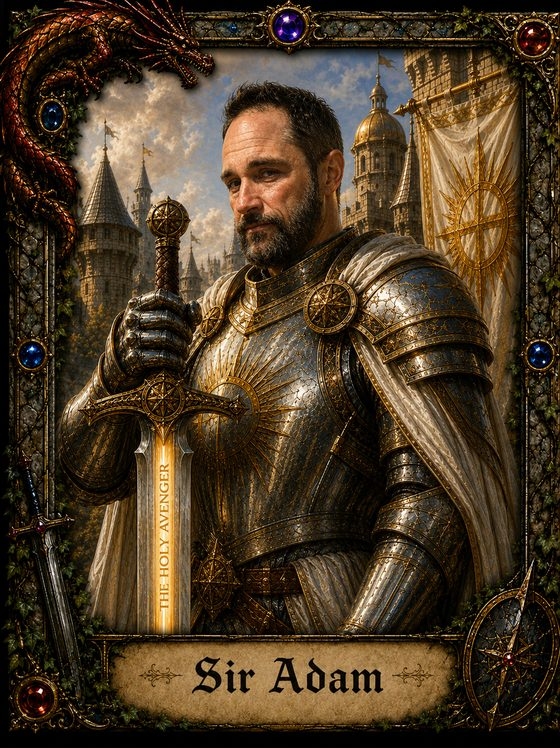
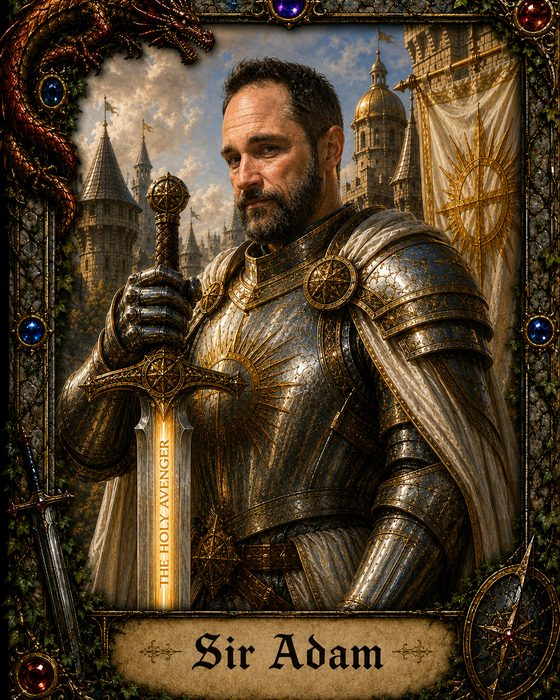
One paladin, four across, full size
Sir Adam takes Sir Garrick's place rather than joining him: two paladins in a
row of four read as a duplicate, and the fifth card cost the row its single
clean line. Back to the four-column grid it had.

The builder now crops every card to one aspect on the way out. They arrive
between 0.75 and 0.80 wide-to-tall, and a row whose images differ in height
puts every caption at a different level — which the eye reads as four cards
and one mistake. The crop is centred and takes at most 3% off the tallest,
which its painted border absorbs.

diff --git a/index.html b/index.html
@@ -164,9 +164,9 @@ race, alignment, scores, hit points and all &mdash; and lets you trade points
 around before you keep it. Or build one by hand, a line at a time.</p>
 
 <div class="heroes">
-  <figure><img src="img/hero-garrick.jpg" width="560" height="700" loading="lazy"
-    alt="Sir Garrick, a human paladin in polished plate armour bearing a golden sword.">
-    <figcaption>Sir Garrick &middot; Paladin</figcaption></figure>
+  <figure><img src="img/hero-adam.jpg" width="560" height="700" loading="lazy"
+    alt="Sir Adam, a human paladin in battered plate before a castle, holding a golden sword named the Holy Avenger.">
+    <figcaption>Sir Adam &middot; Paladin</figcaption></figure>
   <figure><img src="img/hero-bram.jpg" width="560" height="700" loading="lazy"
     alt="Bram Ironfoot, an older dwarf fighter with a braided grey beard and a war axe.">
     <figcaption>Bram Ironfoot &middot; Fighter</figcaption></figure>
@@ -176,9 +176,6 @@ around before you keep it. Or build one by hand, a line at a time.</p>
   <figure><img src="img/hero-theodric.jpg" width="560" height="707" loading="lazy"
     alt="Theodric, a half-orc wizard in a library holding a crystal-topped staff.">
     <figcaption>Theodric &middot; Wizard</figcaption></figure>
-  <figure><img src="img/hero-adam.jpg" width="560" height="748" loading="lazy"
-    alt="Sir Adam, a human paladin in battered plate before a castle, holding a golden sword named the Holy Avenger.">
-    <figcaption>Sir Adam &middot; Paladin</figcaption></figure>
 </div>
 
 <h2>What&rsquo;s inside</h2>

diff --git a/style.css b/style.css
@@ -143,28 +143,24 @@ figcaption {
   gap: 1.25rem;
   margin: 1.5rem 0 2.5rem;
 }
-/* The cast. FLEX RATHER THAN GRID because there are five of them: a four-column
-   grid leaves the fifth card alone against the left margin, and five columns
-   shrinks every card to a thumbnail. Wrapping and centring puts four on the
-   first row and the fifth under the middle of them, which is how a row of
-   cards laid on a table falls anyway. */
+/* The cast: FOUR across, one row, full size. It was briefly five — Sir Garrick
+   and Sir Adam are both paladins, and the pair read as a duplicate while the
+   extra card cost the row its clean single line. One paladin, four columns.
+   The builder crops every card to one aspect so the captions sit level. */
 .heroes {
-  display: flex;
-  flex-wrap: wrap;
-  justify-content: center;
+  display: grid;
+  grid-template-columns: repeat(4, minmax(0, 1fr));
   gap: 1rem;
   margin: 1.5rem 0 2.5rem;
 }
-.heroes figure { flex: 0 1 calc(25% - .75rem); }
 .heroes figcaption { font-size: .82rem; }
 
 @media (max-width: 46rem) {
   .split { grid-template-columns: 1fr; gap: 1.1rem; }
   .split.reverse > figure { order: 0; }
   .gallery { grid-template-columns: repeat(2, minmax(0, 1fr)); }
-  .heroes figure { flex-basis: calc(50% - .5rem); }
+  .heroes { grid-template-columns: repeat(2, minmax(0, 1fr)); }
 }
 @media (max-width: 30rem) {
-  .gallery { grid-template-columns: 1fr; }
-  .heroes figure { flex-basis: calc(50% - .5rem); }
+  .gallery, .heroes { grid-template-columns: 1fr; }
 }
